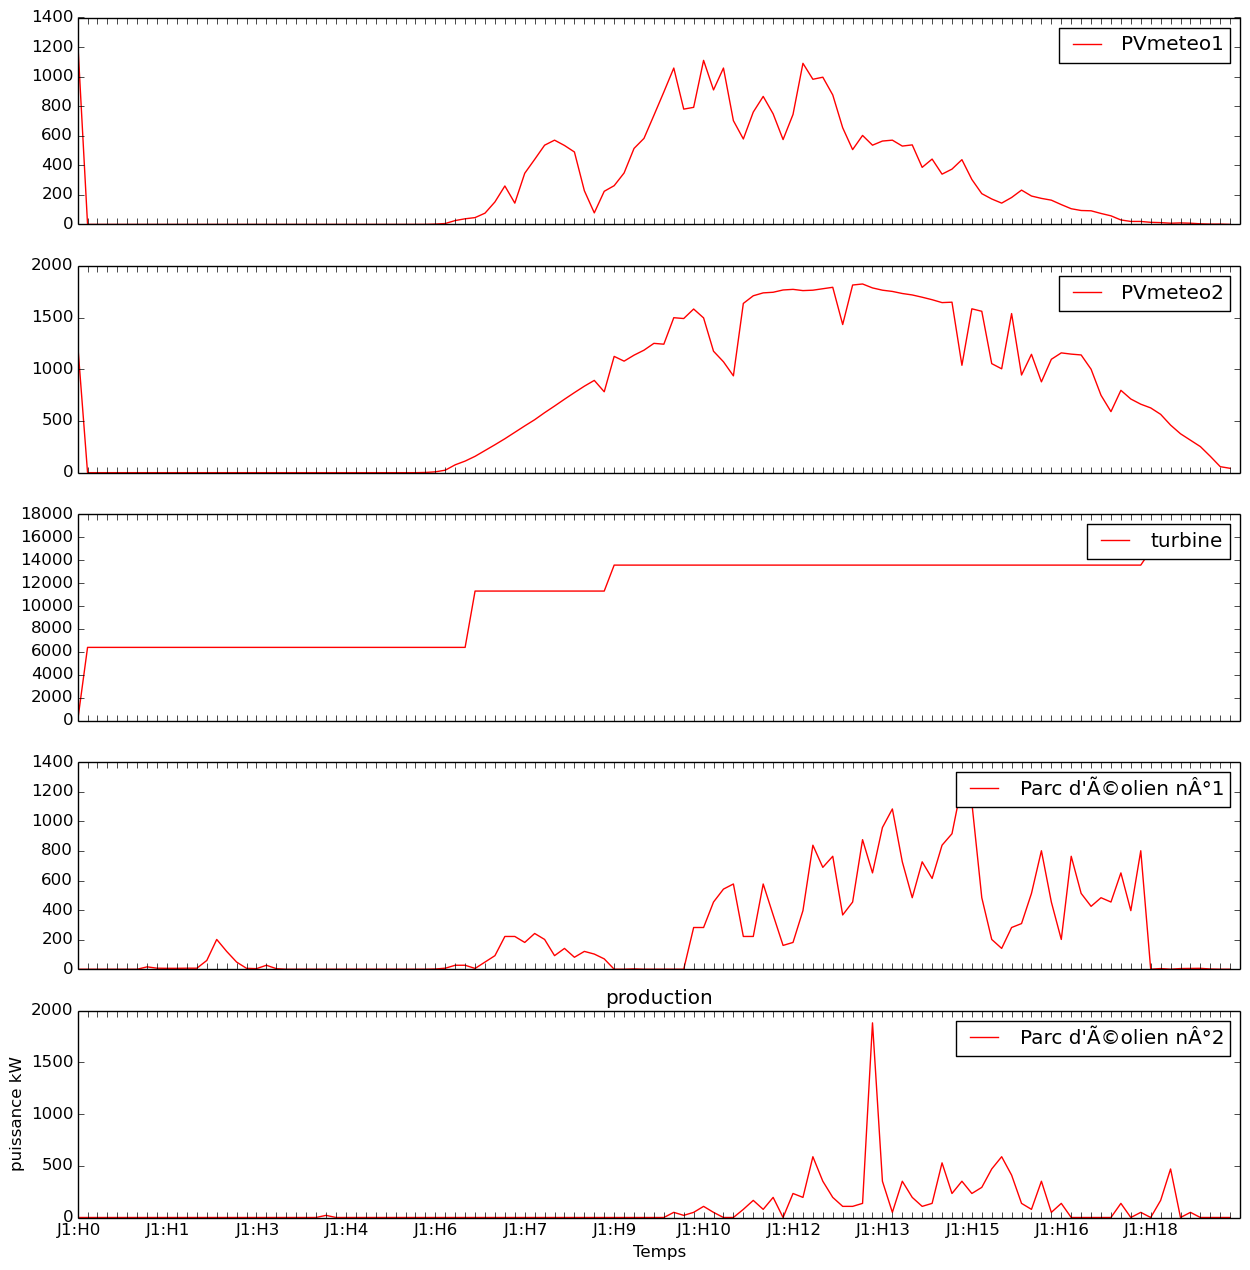
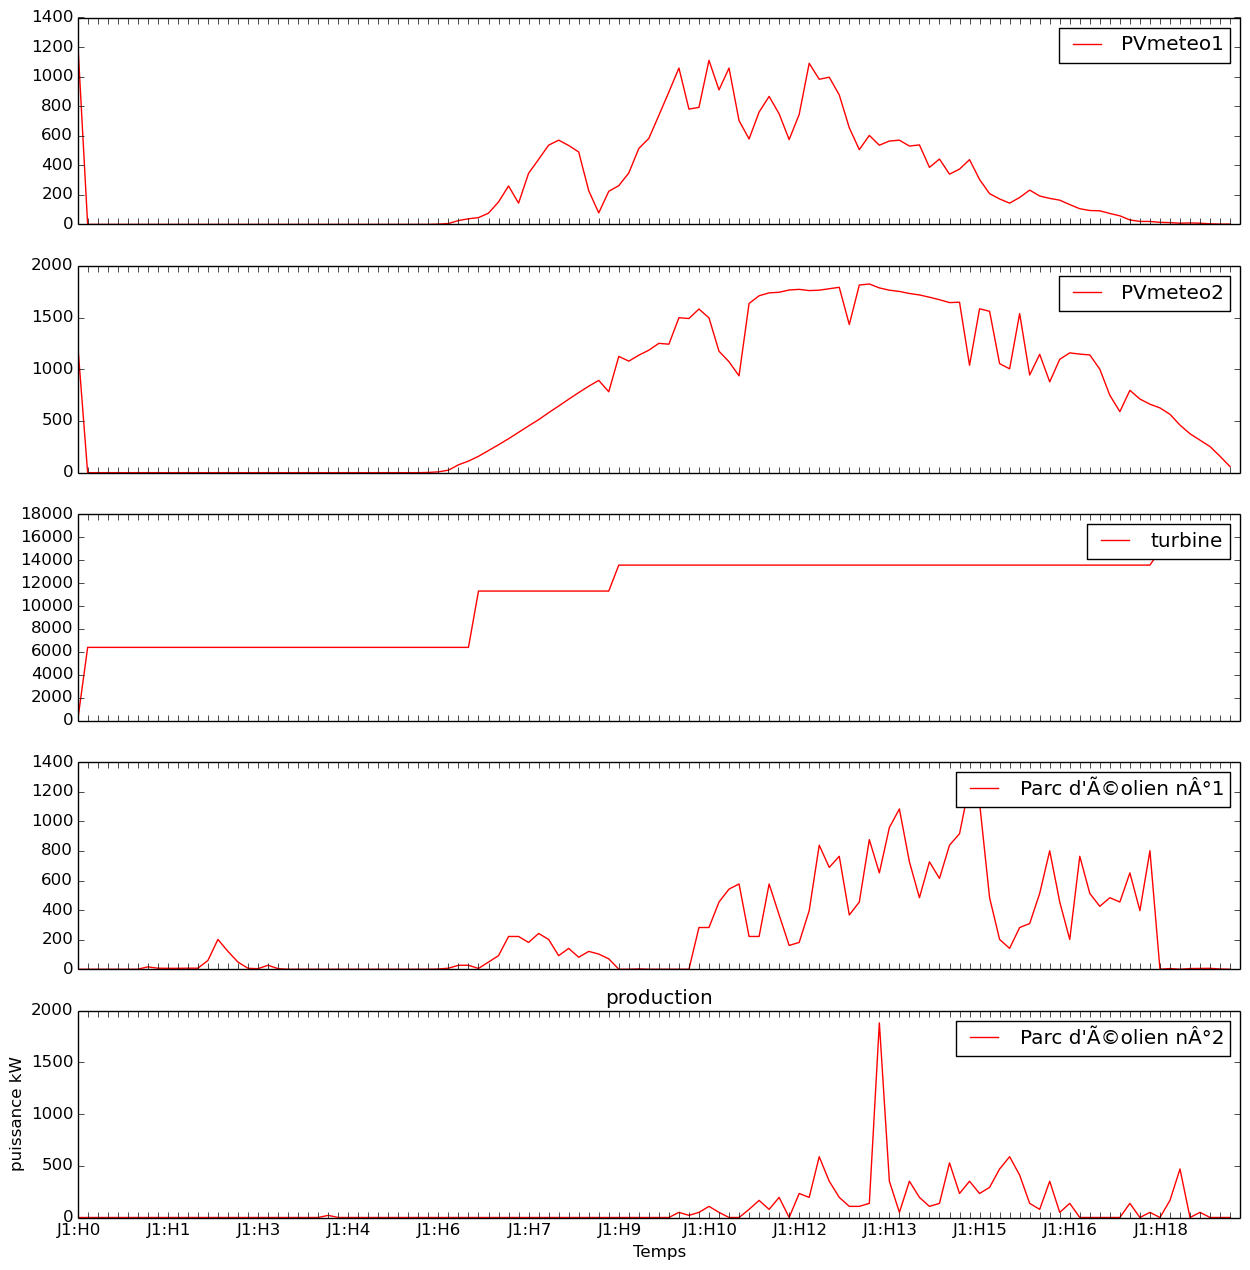
maj main

diff --git a/main.py b/main.py
@@ -58,7 +58,7 @@ def ind_eqpascher2(liste,consigne): #pour prod MIN !! indice de l'equipement le 
 Global.db.vide_table(numTest)
 Global.db.enregistrerID(ville.equipProduction, ville.equipConso, ville.equipStockage, numTest)
 Global.db.enregistrerEtape(ville.equipProduction, ville.equipConso, ville.equipStockage, numTest)
-Global.db.enregistrerConsigne([0 for i in range(ville.nombreEquipementProduction)], [0 for i in range(ville.nombreEquipementConso)],[0 for i in range(ville.nombreEquipementStockage)], numTest) 
+ 
 
 while Global.temps < duree-1: #boucle principale
     prod_actuelle = sum(i.activite/100.*i.PROD_MAX for i in ville.equipProduction)
@@ -187,7 +187,8 @@ while Global.temps < duree-1: #boucle principale
     Global.db.enregistrerEtape(ville.equipProduction, ville.equipConso, ville.equipStockage, numTest)        
     Global.tempsinc()#temps+=1
     print Global.temps
-    
+Global.tempsinc()
+Global.db.enregistrerConsigne([0 for i in range(ville.nombreEquipementProduction)], [0 for i in range(ville.nombreEquipementConso)],[0 for i in range(ville.nombreEquipementStockage)], numTest)
 
 print "ok!"
 if(analyseur):

diff --git a/analyseur.py b/analyseur.py
@@ -42,6 +42,7 @@ for i in range(len(ID)):
     for row in cur.fetchall():
         etat[j].append(row[3]) 
         j+=1
+
         
 #liste des consignes
 cur.execute("""SELECT count( * )
@@ -55,6 +56,9 @@ for i in range(len(ID)):
     for row in cur.fetchall():
         consigne[j].append(row[3]) 
         j+=1
+etat=etat[:-1]
+
+
 #on a besoin de séparer les consos/prods/stocks
 ville=Ville()
 
@@ -270,7 +274,7 @@ if export==True:
 #affichage des consignes en pourcents:
 f,a=plt.subplots(ville.nombreEquipementProduction,sharex=True)
 for i in range(ville.nombreEquipementProduction):#en %.. *ID[i]["Pmax"]/100. pour les puissances
-    a[i].plot(list(range(len(etat))), [consigne[j][i] for j in range(len(etat))], "r", linewidth=1, label=ID[i]["nom"].decode('unicode-escape'))
+    a[i].plot(list(range(len(etat))), [consigne[j][i] for j in range(len(consigne))], "r", linewidth=1, label=ID[i]["nom"].decode('unicode-escape'))
     handles, labels = a[i].get_legend_handles_labels()
     a[i].legend(handles, labels)  
     a[i].axis(xmin=0, xmax=len(etat))
